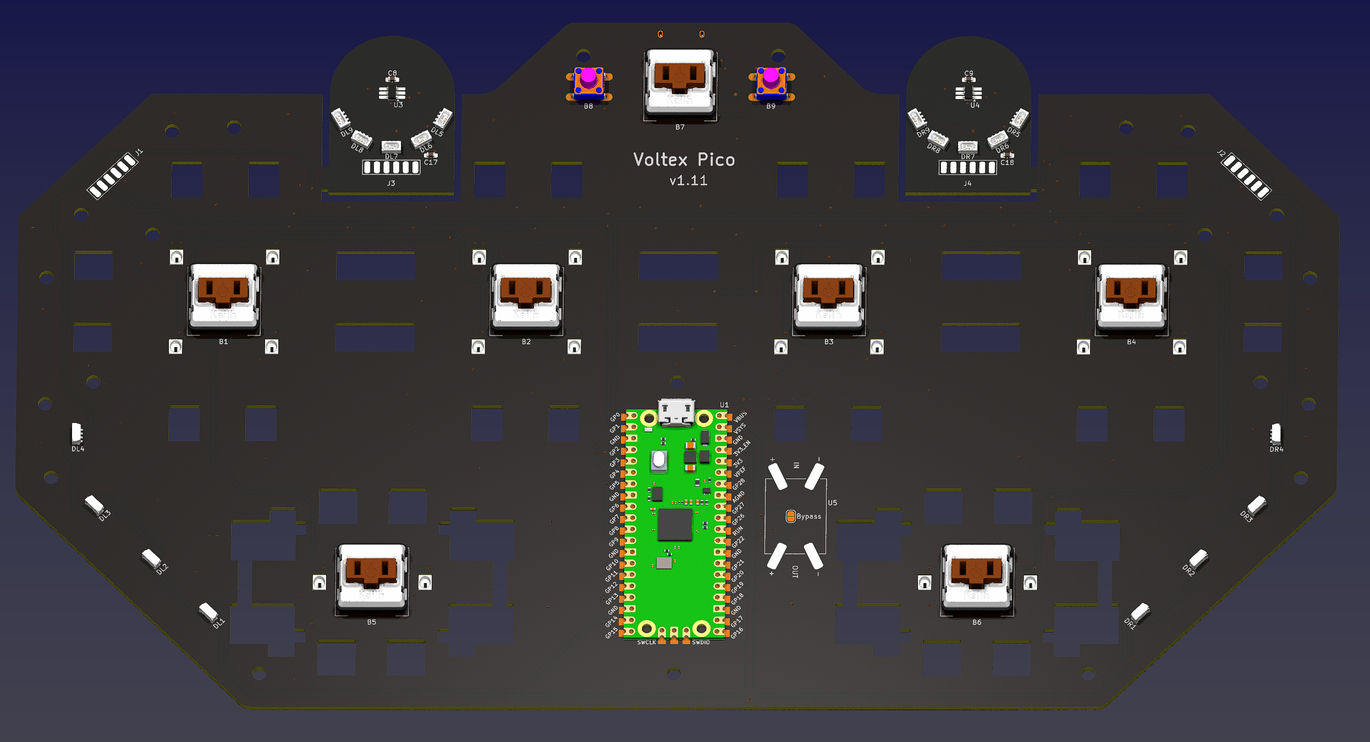
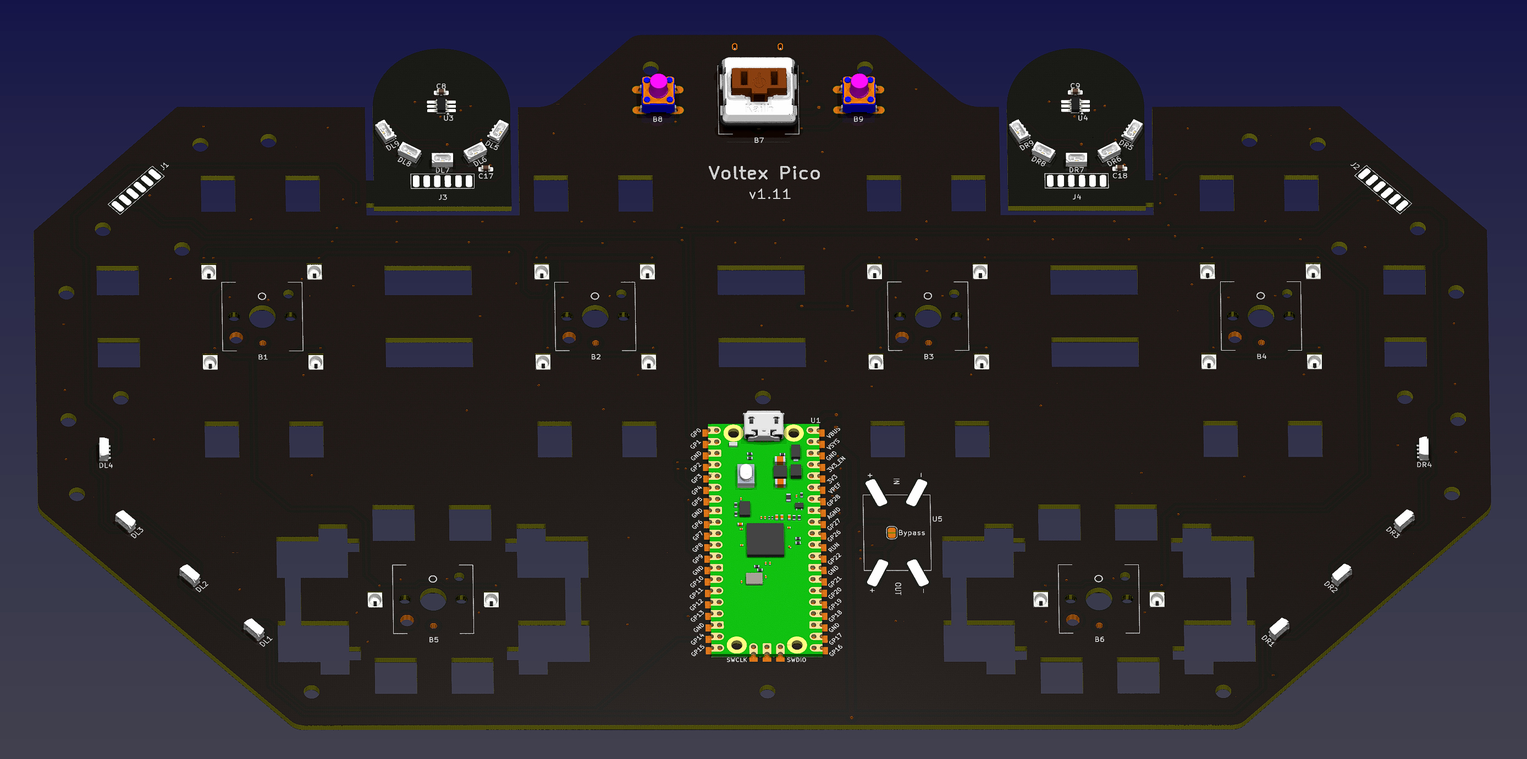
README in CN

diff --git a/README_CN.md b/README_CN.md
@@ -1,10 +1,220 @@
 # Voltex Pico - Sound Voltex 风格的迷你控制器
-[Click here for the English version of this guide.](README.md)
+[点击这里查看英文版本](README.md)
 
 <img src="doc/main.jpg" width="80%">
 
-再等几天，还没写。
+特性：
+* 超薄设计，但尽量复刻街机控制器的手感。
+* 支持霍尔效应（磁性）开关和普通机械开关。
+* 采用我的最新设计：大型按键的平衡机制。
+* 霍尔效应旋钮。
+* 全面支持 HID 灯光。
+* 命令行配置。
+* 所有源文件开放。
+
+感谢许多令人尊敬的爱好者和公司将他们的工具或材料免费或开源（KiCad，OnShape，InkScape，Raspberry 相关工具, 嘉立创，等）。
+
+特别感谢社区项目和开发者的帮助，还有如下项目：
+* RP_Silicon_KiCad: https://github.com/HeadBoffin/RP_Silicon_KiCad
+* Type-C: https://github.com/ai03-2725/Type-C.pretty
+
+
+## 其他项目
+你也可以查看我其他的酷炫项目。
+
+<img src="https://github.com/whowechina/popn_pico/raw/main/doc/main.jpg" height="100px"> <img src="https://github.com/whowechina/iidx_pico/raw/main/doc/main.jpg" height="100px"> <img src="https://github.com/whowechina/iidx_teeny/raw/main/doc/main.jpg" height="100px"> <img src="https://github.com/whowechina/chu_pico/raw/main/doc/main.jpg" height="100px"> <img src="https://github.com/whowechina/mai_pico/raw/main/doc/main.jpg" height="100px"> <img src="https://github.com/whowechina/diva_pico/raw/main/doc/main.jpg" height="100px"> <img src="https://github.com/whowechina/aic_pico/raw/main/doc/main.gif" height="100px"> <img src="https://github.com/whowechina/groove_pico/raw/main/doc/main.gif" height="100px">  <img src="https://github.com/whowechina/geki_pico/raw/main/doc/main.jpg" height="100px"> <img src="https://github.com/whowechina/musec_pico/raw/main/doc/main.jpg" height="100px"> <img src="https://github.com/whowechina/ju_pico/raw/main/doc/main.jpg" height="100px"> <img src="https://github.com/whowechina/bishi_pico/raw/main/doc/main.jpg" height="100px"> <img src="https://github.com/whowechina/nos_pico/raw/main/doc/main.jpg" height="100px">
+
+* Popn Pico: https://github.com/whowechina/popn_pico
+* IIDX Pico: https://github.com/whowechina/iidx_pico
+* IIDX Teeny: https://github.com/whowechina/iidx_teeny
+* Chu Pico: https://github.com/whowechina/chu_pico
+* Mai Pico: https://github.com/whowechina/mai_pico
+* Diva Pico: https://github.com/whowechina/diva_pico
+* AIC Pico: https://github.com/whowechina/aic_pico
+* Groove Pico: https://github.com/whowechina/groove_pico
+* Geki Pico: https://github.com/whowechina/geki_pico
+* Musec Pico: https://github.com/whowechina/musec_pico
+* Ju Pico: https://github.com/whowechina/ju_pico
+* Bishi Pico: https://github.com/whowechina/bishi_pico
+* Nos Pico: https://github.com/whowechina/nos_pico
+
+## **声明** ##
+我在个人时间内制作了这个项目，没有任何经济利益或赞助。我将继续改进这个项目。我已尽我所能确保所有内容的准确性和功能性，但总有可能出现错误。如果你因使用这个开源项目而造成时间或金钱的损失，我不能负责。感谢你的理解。
+
+## 关于许可证
+它是 CC-NC 授权。所以你只能给自己和你的朋友 DIY，不能利用这个项目赚钱，比如收费的代做，出售整机等，连源作者都不敢提的抄袭或者稍微改改换个名字来打擦边球就更不可以了。注意团购和拼单订购原始元器件是合理的，非盈利的方式卖掉剩余的元器件也是可以接受的。
+
+如果希望找我购买成品或者寻求商用授权，请联系我（Discord，QQ 群，闲鱼，微信群或者在 issue 区留下你的联系方式）。
+
+## 我的 Discord 服务器邀请
+https://discord.gg/M8f2PPQFEA
+
+## 如何制作
+### PCB 和组件
+* 前往 JLCPCB 使用 gerber zip 文件下单（最新的 `Production\PCB\voltex_pico_xxx.zip`），常规 FR-4 板材，黑色或白色，**1.6mm** 厚度。
+* 1x 树莓派 Pico 或引脚兼容的克隆板 (U1)。  
+  https://www.raspberrypi.com/products/raspberry-pi-pico
+* 1x USB Type-C 插座 (918-418K2023S40001 或 KH-TYPE-C-16P)
+* 21x 反向贴装 WS2812B-3528 RGB LED (D1-D20)。
+* 18x WS2812B-4020 侧发光 RGB LED (DL1-DL9, DR1-DR9)。
+* 2x TMAG-5273A1 或 TMAG5273A2，SOT23-6 封装 (U3, U4)。
+* 50x 0603 0.1uF 电容（PCB 上所有电容，大部分是可选的）。
+* 4x 0603 5.1kohm 电阻 (R1, R2, R3, R4)。
+* 12x U 形状的 2U 卫星轴钢丝，也可以从普通 2U MX 卫星轴里拆。
+* 1x 凯华 Choc 矮轴用于 START 按钮 (B7)。
+* 2x ALPS SKHHBVA010 或兼容的（6\*6\*7mm）轻触开关用于 AUX 按钮 (B8, B9)。
+* 一些软线用来连接主 PCB 和传感器 PCB。
+
+* **以下仅适用于常规机械轴版本。**
+  * 6x 凯华 Choc 矮轴。4 个 BT 按钮选择重力轴（70gf），2 个 FX 按钮选择常规力度的轴（50gf）(B1-B6)。
+
+* **以下仅适用于霍尔效应（磁轴）版本。**
+  * 1x ADG708BRUZ，8 选 1 模拟开关，TSSOP-16 封装 (U2)。
+  * 1x LM4040 并联电压基准，请选用 2.0V、2.1V 或 2.5V 基准电压的型号，SOT23-3 封装 (U5)。
+  * 1x LP5907MFX-4.5 或 TPS7A2042PDBVR LDO（低压差稳压器），SOT23-5 封装 (U7)。
+  * 6x SS49E 或兼容的线性霍尔效应传感器，SOT23-3 封装 (H1-H6)。
+  * 1x 10ohm 电阻，0603 封装 (R5)。
+  * 1x 3.3V 稳压二极管（齐纳管），SOD-123 或 SOD-123F 封装，如 BZT52H-C3V3 (Z1)。
+  * 6x 矮磁轴，佳达隆/NuPhy 的磁玉 Mini 或者磁玉 Pro Mini，或凯华的星磁 Mini 都可以。(B1-B6)。
+  * 4x 矮轴用的重弹簧（60gF+），用来替换 4 个 BT 主按钮的磁轴的原装弹簧。可以单独购买或从凯华 Choc 重力矮轴里拆。
+
+* 这张图片显示了焊接好的 PCB（较新版本的 PCB 可能有变化），展示的是磁轴版本。  
+  <img src="doc/pcb1.jpg" width="90%">  
+  <img src="doc/pcb2.jpg" width="90%">
+
+### 重要焊接提示
+* 注意 2 个过孔。忘记焊接或在过程中留下气泡是常见的疏忽。为避免这种情况，从孔的一侧慢慢焊接，使用最少的焊丝和大量助焊剂。
+* 反向贴装 LED 焊接在 PCB 的底面。
+* D4 实际上需要常规 WS2812B-3528 RGB LED，而不是反向贴装的。我们可以从反向贴装的制作一个。只需将 4 个引脚弯到底部，它就变成了常规 WS2812B-3528。  
+  <img src="doc/3528bend.jpg" width="30%">
+* 注意 WS2812B-4020 的方向。DL1 到 DL4 和 DR1 到 DR4 是侧面发光，而 DL5 到 DL9 和 DR5 到 DR9 是顶部发光。
+* DC/DC (U5) 空着不焊，但要短接放在相同位置的 BYPASS 跳线。
+* 您不需要焊接所有电容，只焊接 IC 旁边的那些就可以了。
+* Z1 用于保护 Pico 免受过高电压影响，不要忽视它。
+* 有很多 LDO 和并联基准电压型号，只要它们具有相同的封装、引脚和电压，您就可以使用它们。最佳 LDO 电压为 4.0 到 4.5V，不应超过 4.5V，因为负载下的 USB 电压可能会更低。并联基准电压应为 2.0 到 2.5V，大约是 LDO 电压的一半。
+* 普通机械轴需要把轴体焊接到 PCB 上，但是磁轴不需要，磁轴只需要关注磁铁对准 PCB 上面的小白圆圈。
+
+### 测试 PCB
+* 现在可以测试 PCB，先烧录固件进去。
+* 侧面 LED 和旋钮 LED 应以彩虹模式点亮。
+* 按钮 LED 会响应按钮按压（磁轴需要临时把轴体上去并校准）。
+* Voltex Pico 应被识别为 USB HID 设备，这里是测试页面。  
+  https://greggman.github.io/html5-gamepad-test/
+* 将磁性螺丝刀尖端靠近 TMAG5273 传感器，您会注意到测试页面中相应的轴会移动。两个传感器都测试一下。
+
+### 传感器 PCB 分离和焊接
+* 如果一切正常，您可以从主板上切断（甚至直接掰下来）2 个小传感器板。
+* 用较短的软电线把主 PCB 和传感器 PCB 连接起来。  
+  <img src="doc/sensor_pcb.jpg" width="80%">
+
+### 3D 打印
+#### 打印参数
+* PLA 或 PETG。
+* 层高：0.2mm
+* 支撑：否，除非另有说明。
+* 文件始终使用毫米单位，而非英寸。
+
+#### 2x 旋钮部件
+* 旋钮：`Production\3DPrint\* - Knob.stl`，透明，半透明。倒置打印。
+* 轴承固定器：`Production\3DPrint\* - Bearing Fixer.stl`。
+* 磁铁座：`Production\3DPrint\* - Magnet Seat.stl`。
+
+#### 按钮部件
+对于常规机械轴版本，根据您的轴体类型选择 Choc V1 或 Choc v2 键帽。对于磁轴版本，始终选择 Choc V2。
+**所有按钮键帽都倒置打印。**
+
+* 主 BT：`Production\3DPrint\* - BT Choc V?.stl`，白色。
+* FX BT：`Production\3DPrint\* - FX-? Choc V?.stl`，烟雾透明。需要支撑。
+* Start：`Production\3DPrint\* - START Choc V?.stl`，透明，半透明。
+
+#### 侧翼部件
+* 侧翼底座：`Production\3DPrint\* - * Wing Base.stl`，黑色。
+* 侧翼盖：`Production\3DPrint\* - * Wing Cover.stl`，左侧青色，右侧橙色。倒置打印。
+
+#### 外壳部件
+* 底座：`Production\3DPrint\* - Base.stl`，黑色。
+* 支撑：`Production\3DPrint\* - Support.stl`，透明，半透明。
+* 面板：`Production\3DPrint\* - Panel Combo.3mf`，白色或接近白色，如果有多色系统，logo 和图案用黑色。倒置打印。
+
+### 大按钮的超薄平衡机制
+在组装之前，我要这种适用于大按钮的超薄平衡机制。我设计它的初衷是让超薄的 Voltex Pico 成为可能。
+
+平衡的意思是按钮在按下时不会摇摆。摇摆的按钮就像跷跷板，按钮的几个角落不能同步上下移动，这使得按钮手感不好且不可靠。
+
+街机来说平衡从来都不是问题，因为街机框有足够的垂直空间。它们可以使用"导管"的按钮平衡机制。只要管子足够长（相对于管子和轴之间的间隙），按钮只会在水平方向上轻微移动或旋转，但绝不会像跷跷板一样摇摆。
+
+从技术上讲，对于只有几毫米垂直空间的超薄控制器，我们仍然可以使用导管平衡技术，但如此小的管子和轴会很难制作或买到，更不用说滑动表面材料了。简单说就是对 DIY 而言是行不通的。所以我们必须使用基于杠杆的平衡机制，就像现代键盘那样。
+
+键盘的长键帽只是"一维"的，它只需要在其 X 轴上有一个平衡轴（卫星轴）。但大型的街机按钮，它们一般是圆的或者方，它们需要"二维"平衡。所以有些爱好者用 2 个平衡轴，彼此垂直放置。从技术上讲这会起作用，但有些问题。
+  * 轴芯和卫星轴的垂直空间占用对于超薄控制器来说不理想。
+  * 需要精确的键帽轴芯孔（连接轴体和卫星轴），微小的错位可能会造成应力并带来过大的摩擦阻尼。
+  * FDM 和 SLA 3D 打印都有自己的公差，很容易造成错位。
+
+所以在这里我介绍我的方式。
+首先，我仍然使用基于杠杆的平衡，就像键盘中的那样。传统键盘卫星轴里有一个 U 型的钢丝，它安装到两个外壳单元中（我们称之为"卫星轴座"）。它围绕其轴侧旋转并驱动两个连接器（轴芯）同时上下移动。
+
+我的方案是，移除外壳单元和轴芯，让 U 型钢丝直接驱动键帽。移除轴芯后，键帽和杠杆的耦合对错位更加宽容；移除外壳单元后，垂直空间占用更小，对超薄控制器来说非常理想的。
+
+给钢丝用的"轴承"是直接随着底部外壳打印。键帽则有小孔供杠杆臂穿过。FDM 3D 打印机可以轻松打印它们。
+
+  <img src="doc/big_thin_button_stab.webp" width="80%">
+
+Voltex Pico 的大 BT 按钮以及 FX 按钮都用了这种新的平衡机制。
+
+### 组装
+#### 需要的其他组件
+* 6x **M2.5\*(14mm-18mm) 螺丝** 用于将磁铁座固定到旋钮。
+* 8x **M2\*6mm 螺丝** 用于固定轴承（轴承固定器到侧翼盖）。
+* 6x **M2\*(8mm-10mm) 螺丝** 用于将侧翼底座固定到侧翼盖。
+* 12x **M3\*(4mm-5mm) 螺丝** 用于将 PCB 固定到底座部件。
+* 10x **M3\*(8mm-10mm) 螺丝** 用于固定底座、侧翼底座、支撑和面板。
+* 2x 6700zz (10x15x4mm) 轴承用于旋钮。
+* 2x 圆形磁铁，5mm 直径，1.5mm 或 2mm 高，必须是径向/直径磁化（N-S 极在弯曲侧）。
+* 一些薄胶带（如醋酸胶带或高温特氟龙胶带）将磁铁固定到位。
+* 一些 10mm 直径硅胶防滑垫用于底部。
+* 一些 1mm 厚的软毛毡布用于阻尼旋钮。
+
+#### 步骤
+1. 我们从轴承开始，把轴承装到侧翼盖，使用轴承固定固定器和 M2\*6mm 螺丝把它们固定。  
+   <img src="doc/assemble_bearings.jpg" width="60%">
+
+2. 从软毛毡布上剪一个环，用来给旋钮提供阻尼。如果您觉得这太困难，可以在旋钮和传感器 PCB 之间放几层毛毡层，也有效。   
+   <img src="doc/felt_damping.jpg" width="60%">
+
+3. 用磁铁座和 M2.5 螺丝将旋钮固定到轴承（长螺丝是为了加固旋钮轴）。然后将磁铁放入中心座。如果您有一些薄胶带，贴上面封住，这样磁铁就不会掉出来。  
+   <img src="doc/assemble_knob.jpg" width="45%"> <img src="doc/magnet_seal.jpg" width="45%">
+
+4. 将主 PCB 放入底座部件，将传感器 PCB 放入侧翼底座部件。使用 M3\*(4mm-5mm) 螺丝将 PCB 固定到底座部件。  
+   <img src="doc/assemble_PCB.jpg" width="30%"> <img src="doc/assemble_PCB2.jpg" width="50%">
+
+5. 是时候安装键帽和平衡结构了。很简单，直接看图片吧。您可以应用一些薄的泡棉垫来阻尼键帽噪音，但这不是必需的。润滑一下钢丝会让运动更平滑。  
+   <img src="doc/assemble_keycap.jpg" width="40%"> <img src="doc/assemble_keycap2.jpg" width="40%"> <img src="doc/assemble_keycap3.jpg" width="80%">
+
+6. 装上支撑和面板。使用 M3\*(8mm-10mm) 螺丝固定底座，侧翼上的两颗先空着。
+
+7. 装上侧翼盖（上面已经装了旋钮），使用 M2\*(8mm-10mm) 螺丝将它们固定（参见图片中的 M2 螺丝）。并在剩余的螺丝孔上使用 M3\*(8mm-10mm) 螺丝（每边一个）。贴上硅胶垫，它们不是很好看但可以防止控制器在桌上滑动。   
+   <img src="doc/assemble_wing_m2.jpg" width="25%"> <img src="doc/assemble_pads.jpg" width="70%">
+   
+8. 恭喜！您已经完成了组装。  
+   <img src="doc/assemble_done.jpg" width="80%">
+
+#### 注意事项
+* 每台 3D 打印机和耗材都有自己的公差。如果您发现键帽上的孔太紧，使用针或刀将其稍微扩大一点。
+* 螺丝很容易破坏 3D 打印部件。所以不要拧得太紧。当您注意到阻力突然增加时，停止拧螺丝。
+
+### 固件
+* UF2 文件在 `Production\Firmware` 文件夹中。
+* 第一次烧写固件，请在连接 USB 到 PC 时按住 BOOTSEL 按钮，会出现一个名为"RPI-RP2"的磁盘。将 UF2 固件二进制文件拖入其中就好了。底面有一个小孔，它正对着 BOOTSEL 按钮。
+* 如果它已经在运行 Voltex Pico 固件，您可以在命令行中使用"update"或在连接 USB 时按住至少 4 个按钮进入更新模式。
+* 要访问命令行，您可以使用此 Web 串行终端连接到控制器的 USB 串行端口。（注意："?" 用于帮助）  
+  https://googlechromelabs.github.io/serial-terminal/
+
+### 使用方法
+* 如果您构建了霍尔效应开关版本，您需要先校准（`calibrate` 命令）。您可以在命令行中设置触发和复位点。
+* 只需插入并开始游戏。
+* 您可以通过 `knob rate` 命令设置旋钮分辨率。
+* 您可以通过 `trigger` 命令设置触发和复位点（仅限霍尔效应开关版本）。
 
 ## CAD 源文件
-我使用的是 OnShape 的免费订阅。它很强大，但不能将原始设计存档到本地，所以我只能在这里分享链接。STL/DXF/DWG 文件是从这个在线文档导出的。  
+我使用的是 OnShape 的免费订阅，它很强大，但不能将原始设计存档到本地，所以我只能在这里分享链接。模型文件都是从这个在线文档导出的。  
   https://cad.onshape.com/documents/757c9485a30088ef0335481e/w/af98e079c47cba7d81086e65/e/9703cb81cc6ed9c6ec563897

diff --git a/README.md b/README.md
@@ -61,7 +61,7 @@ https://discord.gg/M8f2PPQFEA
 * 50x 0603 0.1uF capacitors (all capacitors on the PCB, most of them are optional).
 * 4x 0603 5.1kohm resistors (R1, R2, R3, R4).
 * 12x U-shape 2U stabilizer steel wires, you can also harvest them from regular 2U MX stabilizers.
-* 1x Kail Choc switch for the START button (B7).
+* 1x Kailh Choc switch for the START button (B7).
 * 2x ALPS SKHHBVA010 or compatible (6\*6\*7mm) tactile switches for the AUX buttons (B8, B9).
 * Some soft wires to connect the main PCB to the sensor PCBs.
 
@@ -75,10 +75,10 @@ https://discord.gg/M8f2PPQFEA
   * 6x SS49E or compatible linear Hall Effect sensors, in SOT23-3 (H1-H6).
   * 1x 10ohm resistor, 0603 (R5).
   * 1x 3.3V Zener diode, in SOD-123 or SOD-123F, such as BZT52H-C3V3 (Z1).
-  * 6x low profile magnetic switches, Gateron/Nuphy Jade mini or Jade Pro mini, or Kailh Star Magnetic Mini. (B1-B6).
-  * 4x heavy springs to replace the original ones for 4 BT low-profile buttons. You may buy or harvest them from Kailh Choc heavy switches.
+  * 6x low profile magnetic switches, Gateron/NuPhy Jade Mini or Jade Pro Mini, or Kailh Star Magnetic Mini. (B1-B6).
+  * 4x heavy springs (60gF+) for low-profile switches, to replace the original ones in 4 BT switches. You may buy or harvest them from Kailh Choc heavy switches.
 
-* This picture shows a soldered PCB (there might be changes in newer versions of PCB). It shows a Hall Effect switch build.  
+* This picture shows a soldered PCB (there might be changes in newer versions of PCB). It's a Hall Effect switch build.  
   <img src="doc/pcb1.jpg" width="90%">  
   <img src="doc/pcb2.jpg" width="90%">
 
@@ -92,11 +92,12 @@ https://discord.gg/M8f2PPQFEA
 * You don't need to solder all the capacitors, it's fine to just solder the ones right beside ICs.
 * Z1 is to protect the Pico from excessive voltage, don't ignore it.
 * There are many LDOs and shunt voltage reference models, as long as they have the same form factor, pinout and voltage, you can use them. Best LDO voltages are 4.0 to 4.5V, they should not go higher than 4.5V, as the USB voltage under load could be lower than it. The shunt voltage reference should be 2.0 to 2.5V, roughly half of the LDO voltage.
+* For regular switch build, you need to solder the switches onto the PCB. For Hall Effect switch build, you don't need to solder the switches, just make sure the magnets are aligned with the small white circles on the PCB.
 
 ### Test the PCB
 * You can test the PCB now, put the firmware in.
 * Side LEDs and Knob LEDs should light up in a rainbow pattern.
-* Button LEDs respond to the button presses.
+* Button LEDs respond to the button presses (magnetic switches need to be temporarily put on and calibrated).
 * Voltex Pico should be recognized as a USB HID device, here's the test page.  
   https://greggman.github.io/html5-gamepad-test/
 * Move a magnetic screwdriver tip close to the TMAG5273 sensor, you'll notice the corresponding axis move in the test page. Please check both sensors.
@@ -120,7 +121,7 @@ https://discord.gg/M8f2PPQFEA
 
 #### Button Parts
 For regular switch build, choose Choc V1 or Choc v2 keycaps according to your switch type. For Hall Effect switch build, always choose Choc V2 ones.
-For all button keycaps, print them upside down.
+**For all button keycaps, print them upside down.**
 
 * Main BT: `Production\3DPrint\* - BT Choc V?.stl`, white.
 * FX BT: `Production\3DPrint\* - FX-? Choc V?.stl`, smokey transparent. Support required.
@@ -135,16 +136,16 @@ For all button keycaps, print them upside down.
 * Support: `Production\3DPrint\* - Support.stl`, clear, semi-transparent.
 * Panel: `Production\3DPrint\* - Panel Combo.3mf`, white or close-to-white, with logo and patterns in black if you have multi-color system. Print it upside down.  
 
-### New Stabilizing Mechanism for Big Thin button 
-Before assembly, I'm going to introduce a new stabilizing mechanism for big thin buttons. I designed it so a slim Voltex Pico is possible.
+### Thin Stabilizing Mechanism for Big Button 
+Before assembly, I'm going to introduce a new thin stabilizing mechanism for big buttons. I designed it so a slim Voltex Pico is possible.
 
 Stabilizing a button means to make the button not wobble when pressed. A wobbling button is like a seesaw, corners for the button don't go up and down in sync, which makes the button feel bad and not reliable.
 
 Stabilizing a big button is never a problem for arcade, simply because arcade cabs have enough vertical space. They can use so called "tube guide" stabilizing. As long as the tube is long enough (versus the gap between the tube and the shaft), buttons can only move or twist horizontally a little bit, but never wobble like a seesaw. 
 
-Technically, for a slim controller which only has millimeters of vertical space, we can still use tube guide, but such a small tube and shaft will be very difficult to make or harvest, not to mention the sliding surface material. In short words, it's not feasible for DIYers. So we have to use a lever based stabilizing mechanism, like people do in the modern keyboards.
+Technically, for a slim controller which only has millimeters of vertical space, we can still use tube guide, but such a small tube and shaft will be very difficult to make or harvest, not to mention the sliding surface material. In short words, it's not feasible for DIYers. So we have to use a lever based stabilizing mechanism, like we do in the modern keyboards.
 
-Long keyboard keycaps are only "1-dimensional", you only need one stabilizer on their X-axis. But for big arcade buttons - big and flat - they need "2-dimensions" of stabilizing. So people just drop in 2 stabilizers, placed perpendicular to each other. Technically this will work. But there come new problems.
+Long keyboard keycaps are "1-dimensional", you only need one stabilizer on their X-axis. But for big arcade buttons - big cicle or square - they need "2-dimensions" of stabilizing. So people just drop in 2 stabilizers, placed perpendicular to each other. Technically this will work. But there come new problems.
   * Vertical space for the stem and the stabilizer is not ideal for a slim controller.
   * Requires accurate keycap stem holes (connecting both the keyswitch and the stabilizer), tiny misalignment can cause stress and bring excessive friction.
   * Both FDM and SLA 3D printing have their own tolerances, which can cause misalignment easily.
@@ -154,7 +155,7 @@ First of all, I'm still using a lever-based stabilizing, just like the one in ke
 
 My change is, remove the housing units and the stems, let the U-shape steel lever drive the keycap directly. With the stems removed, coupling of the keycap and the lever is much more lenient to misalignment; with the housing units removed, the vertical space is much smaller, which is ideal for a slim controller.
 
-The "bearing" for the lever is printed in the bottom housing, it has slots for the lever shaft. The keycaps have small holes for the lever arms to go through. A FDM 3D printer can print them easily.
+The "bearing" for the lever is printed along with the the bottom housing. The keycaps have small holes for the lever arms to go through. A FDM 3D printer can print them easily.
 
   <img src="doc/big_thin_button_stab.webp" width="80%">
 
@@ -167,20 +168,20 @@ The Voltex Pico uses this new stabilizing mechanism for the big BT buttons as we
 * 6x **M2\*(8mm-10mm) screws** for fixing wing bases to the wing cover.
 * 12x **M3\*(4mm-5mm) screws** for fixing the PCB to the base parts.
 * 10x **M3\*(8mm-10mm) screws** for fixing the base, wing base, support and the panel.
-* 2x 6700zz (10x15x4mm) bearings for the knobs
+* 2x 6700zz (10x15x4mm) bearings for the knobs.
 * 2x round magnets, 5mm diameter, 1.5mm or 2mm tall, MUST be radially/diametrically magnetized (N-S poles on the curved side).
-* Some good tape (such as acetate tape or high-temp teflon tape) to fix the magnets in place.
+* Some thin tape (such as acetate tape or high-temp teflon tape) to fix the magnets in place.
 * Some 10mm diameter silicone anti-slip pads for the bottom.  
 * Some 1mm thick soft felt sheet for damping the knobs.
 
 #### Steps
-1. We'll start with the bearings.  
+1. We'll start with the bearings. They should be inserted into wing parts. Fix them using bearing fixers and M2\*6mm screws.  
    <img src="doc/assemble_bearings.jpg" width="60%">
 
-2. Cut a ring from the soft felt sheet to dampen the knob.  If you feel this is too difficult, you can apply some layers of felt between the knob and the sensor PCB, it works too.   
+2. Cut a ring from the soft felt sheet to dampen the knob. If you feel this is too difficult, you can apply some layers of felt between the knob and the sensor PCB, it works too.   
    <img src="doc/felt_damping.jpg" width="60%">
 
-3. Fix the knob to the bearing with the magnet set and the M2.5 screws (screws are long enough to reinforce the knob shaft). Then put the magnet into the center seat. If you have some thin tape, apply it as a seal so magnet won't fall out.  
+3. Fix the knob to the bearing with the magnet set and the M2.5 screws (long screws help reinforce the knob shaft). Then put the magnet into the center seat. If you have some thin tape, apply it as a seal so magnet won't fall out.  
    <img src="doc/assemble_knob.jpg" width="45%"> <img src="doc/magnet_seal.jpg" width="45%">
 
 4. Put the main PCB into the base part, and sensor PCBs into the wing base parts. Use M3\*(4mm-5mm) screws to fix the PCB to the base parts.  
@@ -189,9 +190,9 @@ The Voltex Pico uses this new stabilizing mechanism for the big BT buttons as we
 5. Time to install keycaps to the stabilizer. It's simple, just look at the pictures. You can apply some thin poron pads to dampen the keycap noise, but it's not necessary. Some lubricant can be applied to the lever shaft, this makes the movement smoother.  
    <img src="doc/assemble_keycap.jpg" width="40%"> <img src="doc/assemble_keycap2.jpg" width="40%"> <img src="doc/assemble_keycap3.jpg" width="80%">
 
-6. Put on the support and the panel. Use M3\*(8mm-10mm) screws to fix the base.  
+6. Put on the support and the panel. Use M3\*(8mm-10mm) screws to fix the base. Leave the two screws on the wing base empty for now.
 
-7. Put on the wing bases, use M2\*(8mm-10mm) screws to fix them to the wing cover (see the picture for M2 screws). And use M3\*(8mm-10mm) screws on the remaining screw holes (one at each side). You can apply some silicone pads, they don't look nice but they prevent the controller from sliding on the table.   
+7. Put on the wing covers (which already have knobs on them), use M2\*(8mm-10mm) screws to fix them to the wing cover (see the picture for M2 screws). And use M3\*(8mm-10mm) screws on the remaining screw holes (one at each side). Apply silicone pads, they don't look nice but they prevent the controller from sliding on the table.   
    <img src="doc/assemble_wing_m2.jpg" width="25%"> <img src="doc/assemble_pads.jpg" width="70%">
    
 8. Congratulations! You have finished the assembly.  
@@ -212,7 +213,8 @@ The Voltex Pico uses this new stabilizing mechanism for the big BT buttons as we
 * If you built a Hall Effect switch version, you need to calibrate first (`calibrate` command). You can set trigger and reset point in command line.
 * Just plug it in and play.
 * You can set knob resolution by `knob rate` command.
+* You can set trigger and reset point by `trigger` command (only for Hall Effect switch version).
 
 ## CAD Source File
-I'm using OnShape free subscription. It's powerful but it can't archive original designs to local, so I can only share the link here. STL/DXF/DWG files are exported from this online document.  
+I'm using OnShape free subscription. It's powerful but it can't archive original designs to local, so I can only share the link here. All model files are exported from this online document.  
   https://cad.onshape.com/documents/757c9485a30088ef0335481e/w/af98e079c47cba7d81086e65/e/9703cb81cc6ed9c6ec563897
